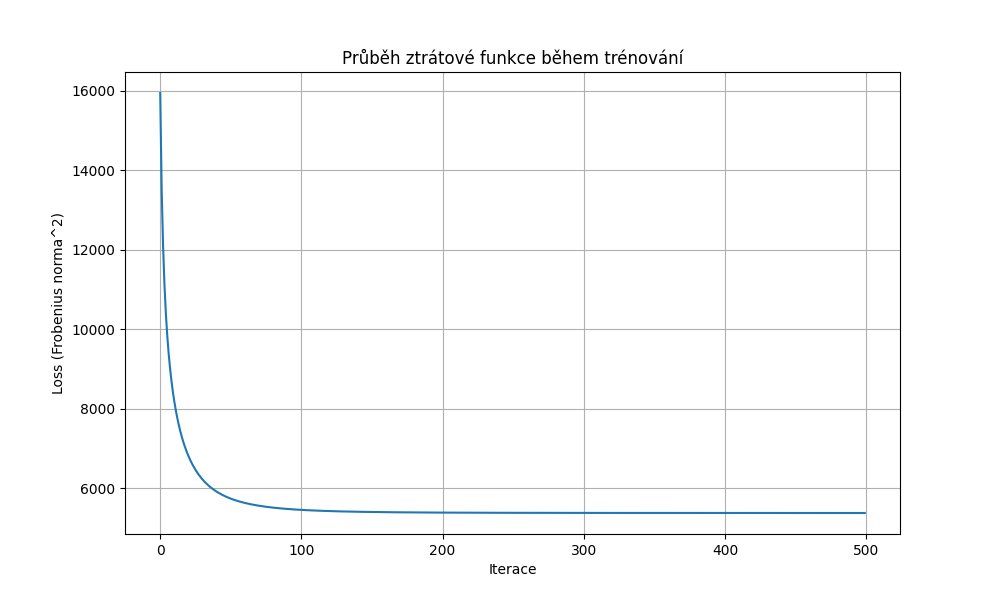
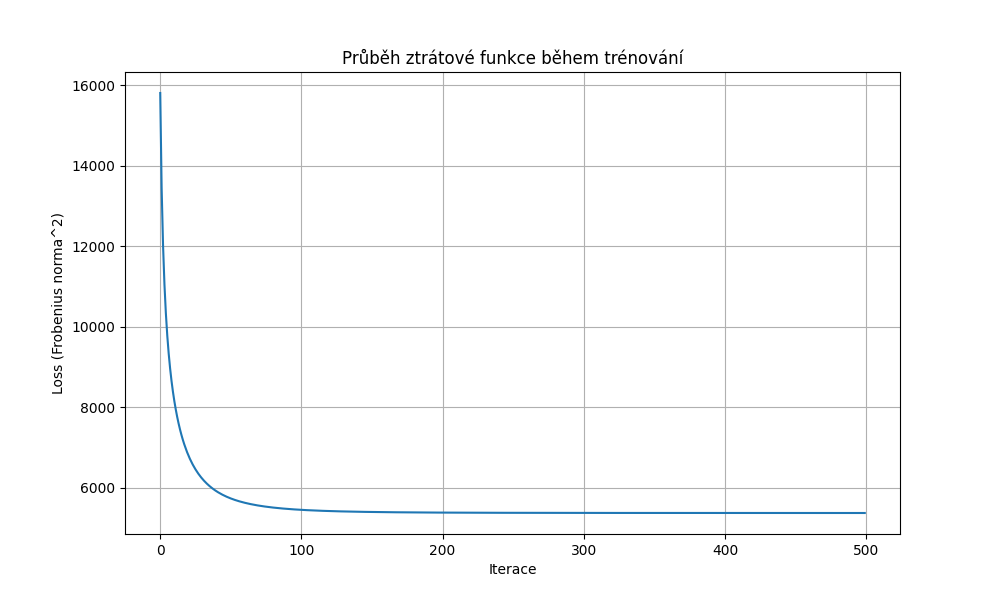
fix(task7): update dictionary URLs and clean up compressed files + small changes

diff --git a/tasks/task7.py b/tasks/task7.py
@@ -34,8 +34,8 @@ def download_resources():
 
     cs_emb_url = "https://dl.fbaipublicfiles.com/fasttext/vectors-crawl/cc.cs.300.vec.gz"
     en_emb_url = "https://dl.fbaipublicfiles.com/fasttext/vectors-crawl/cc.en.300.vec.gz"
-    train_dict_url = "https://dl.fbaipublicfiles.com/arrival/dictionaries/cs-en.txt"
-    test_dict_url = "https://dl.fbaipublicfiles.com/arrival/dictionaries/cs-en.0-5000.txt"
+    train_dict_url = "https://dl.fbaipublicfiles.com/arrival/dictionaries/cs-en.0-5000.txt"
+    test_dict_url = "https://dl.fbaipublicfiles.com/arrival/dictionaries/cs-en.5000-6500.txt"
 
     cs_emb_path = os.path.join(input_dir, "cc.cs.300.vec")
     en_emb_path = os.path.join(input_dir, "cc.en.300.vec")
@@ -59,6 +59,11 @@ def download_resources():
                 with open(emb_path, 'wb') as f_out:
                     f_out.write(f_in.read())
             print(f"Rozbaleno: {emb_path}")
+
+    for emb_path in [cs_emb_path, en_emb_path]:
+        if os.path.exists(emb_path + ".gz"):
+            os.remove(emb_path + ".gz")
+            print(f"Smazán: {emb_path}.gz")
 
     return cs_emb_path, en_emb_path, train_dict_path, test_dict_path
 
@@ -201,7 +206,6 @@ def gradient_descent(X, Y, learning_rate=0.01, max_iterations=1000, tol=1e-6, pa
 
         pbar.set_postfix(loss=f"{current_loss:.4f}", patience=patience_counter)
 
-        # Ukládání nejlepšího modelu
         if current_loss < best_loss:
             best_loss = current_loss
             best_W_t = W_t.copy()
@@ -223,7 +227,7 @@ def gradient_descent(X, Y, learning_rate=0.01, max_iterations=1000, tol=1e-6, pa
     plt.plot(loss_history)
     plt.title('Průběh ztrátové funkce během trénování')
     plt.xlabel('Iterace')
-    plt.ylabel('Loss (Frobenius norma^2)')
+    plt.ylabel('Ztráta')
     plt.grid(True)
 
     save_dir = "../output/task7"
